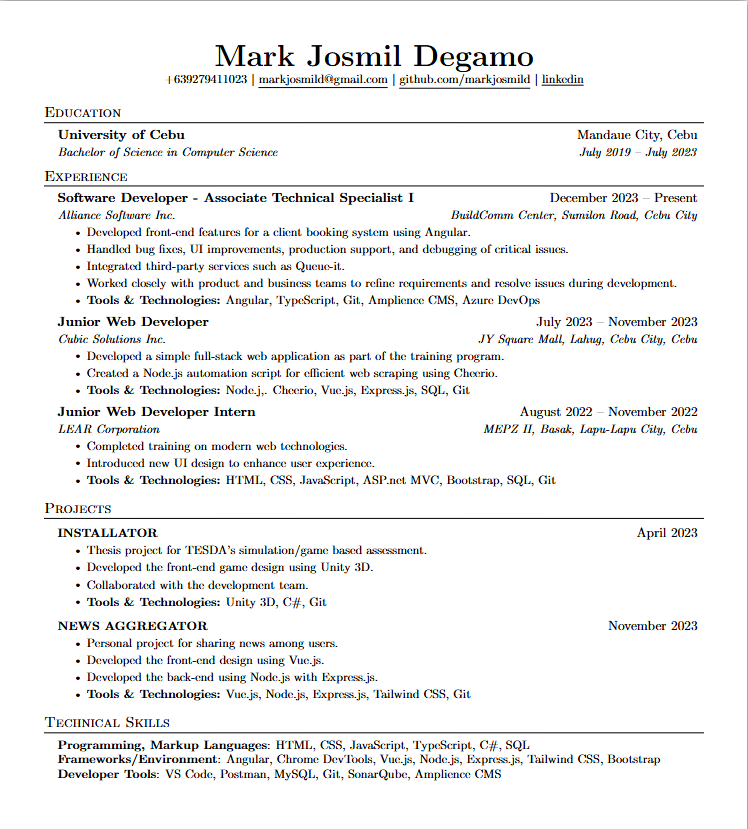
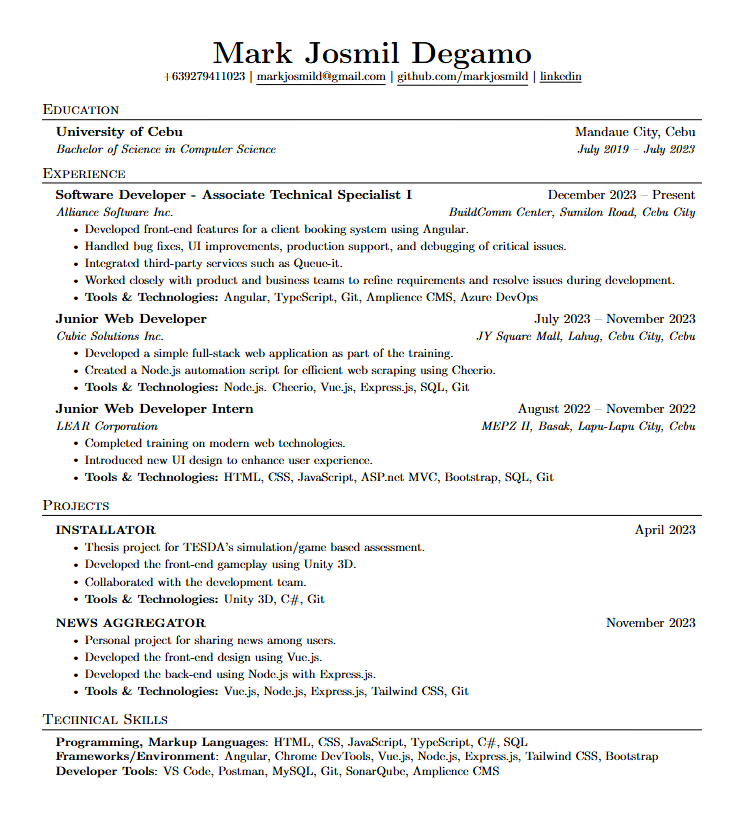
update resume

Changed region(s): [[0.0618, 0.0306, 0.9583, 0.9474], [0.9892, 0.0, 1.0, 1.0], [0.8038, 0.7335, 0.9274, 0.7641]]

diff --git a/resume.tex b/resume.tex
@@ -113,7 +113,7 @@
 
 \begin{center}
     \textbf{\Huge \scshape Mark Josmil Degamo} \\ \vspace{1pt}
-    \small 09927862311 $|$ 
+    \small +639279411023 $|$ 
     \href{mailto:markjosmild@gmail.com}
     {\underline{markjosmild@gmail.com}} $|$ 
     \href{https://www.linkedin.com/in/mark-josmil-degamo-97a05a273/}
@@ -148,9 +148,9 @@
       {Junior Web Developer}{July 2023 -- November 2023}
       {Cubic Solutions Inc.}{JY Square Mall, Lahug, Cebu City, Cebu}
       \resumeItemListStart
-        \resumeItem{Developed a simple full-stack web application as part of the training program.}
+        \resumeItem{Developed a simple full-stack web application as part of the training.}
         \resumeItem{Created a Node.js automation script for efficient web scraping using Cheerio.}
-        \resumeItem{\textbf{Tools \& Technologies:} Node.j,. Cheerio, Vue.js, Express.js, SQL, Git}
+        \resumeItem{\textbf{Tools \& Technologies:} Node.js. Cheerio, Vue.js, Express.js, SQL, Git}
       \resumeItemListEnd
     \resumeSubheading
       {Junior Web Developer Intern}{August 2022 -- November 2022}
@@ -172,16 +172,16 @@
           {\textbf{INSTALLATOR}}{April 2023}
           \resumeItemListStart
             \resumeItem{Thesis project for TESDA's simulation/game based assessment.}
-            \resumeItem{Developed the front-end game design using Unity 3D.}
+            \resumeItem{Developed the front-end gameplay using Unity 3D.}
             \resumeItem{Collaborated with the development team.}
-            \resumeItem{\textbf{Tools \& Technologies:} C\#, Unity 3D, Git}
+            \resumeItem{\textbf{Tools \& Technologies:} Unity 3D, C\#, Git}
           \resumeItemListEnd
         \resumeProjectHeading
           {\textbf{NEWS AGGREGATOR}}{November 2023}
           \resumeItemListStart
             \resumeItem{Personal project for sharing news among users.}
             \resumeItem{Developed the front-end design using Vue.js.}
-            \resumeItem{Developed the back-end api using Node.js with Express.js.}
+            \resumeItem{Developed the back-end using Node.js with Express.js.}
             \resumeItem{\textbf{Tools \& Technologies:} Vue.js, Node.js, Express.js, Tailwind CSS, Git}
             
           \resumeItemListEnd
